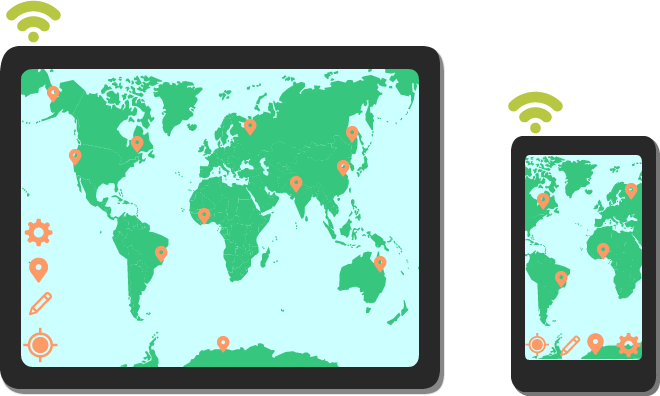
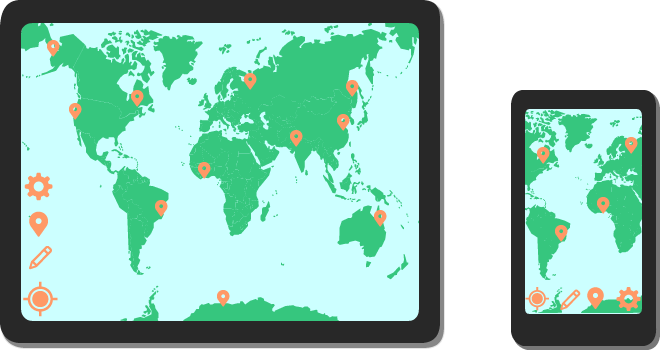
Small index page fixes for android, iphone, etc.

diff --git a/docs/source/index.html b/docs/source/index.html
@@ -1,5 +1,5 @@
 <!DOCTYPE html>
-<html lang="en-US" prefix="og: http://ogp.me/ns#">
+<html lang="en-US" prefix="og: http://ogp.me/ns#" class="no-js">
 <head>
   <meta charset="UTF-8">
 
@@ -83,16 +83,16 @@
 
 <script type="text/javascript" src="_static/modernizr.2.7.1.min.js"></script>
   <link rel="stylesheet" href="_static/style.css" type="text/css" />
-  <link rel="stylesheet" href="_static//animate.min.css" type="text/css" />
-   <link rel="stylesheet" href="_static/extra.css" type="text/css" />
+  <link rel="stylesheet" href="_static/animate.min.css" type="text/css" />
+  <link rel="stylesheet" href="_static/extra.css" type="text/css" />
 </head>
 <body class="page">
   <a name="top"></a>
 
-		<header id="masthead" class="site-header" role="banner">
-			<a href="http://boundlessgeo.com/" rel="home" id="logo"><img src="_static/logo.png"></a>
+    <header id="masthead" class="site-header" role="banner">
+      <a href="http://boundlessgeo.com/" rel="home" id="logo"><img src="_static/logo.png"></a>
       <img id="android" src="_static/android.png">
-		</header>
+    </header>
   <section class="navi">
     <div class="secondarynav">
       <div class=" breadcrumbs pull-left">
@@ -122,7 +122,7 @@
     <div class="container">
       <div class="row">
         <div class="col-md-12 text-center">
-          <h1 style="margin-top: 20px;">A native Android geospatial library and map server.
+          <h1 style="margin-top: 20px; z-index:50;">A native Android geospatial library and map server.
         </div>
       </div>
       <div class="row">
@@ -131,7 +131,7 @@
           <p class="animated fadeIn fadeText" id="android_text">Custom lightweight mobile components...</p>
           <p class="animated fadeIn fadeText" id="lowlevel_text">A fast, native canvas renderer...</p>
           <p class="animated fadeIn fadeText" id="projections_text">Native geometry &amp; projection support...</p>
-          <p class="animated fadeIn fadeText" id="formats_text">Vector support for .shps, geopackage, geogit, geojson, mbtiles &amp; more...</p>
+          <p class="animated fadeIn fadeText" id="formats_text">Vector support for .shp, .gpkg, geogit, geojson, mbtiles &amp; more</p>
 
           <p class="animated fadeIn fadeText" id="water_text">A mobile server with tile service, map service...</p>
 
@@ -144,7 +144,11 @@
       <div class="row-fluid">
         <div class="col-md-12 text-center" style="margin: 20px 0;">
 
+          <img src="_static/devices_wifi.png" id="wifi" class="device animated fadeIn" />
+
           <img src="_static/devices_all.png" id="all" class="device animated fadeIn" />
+
+          <img src="_static/devices_features.png" id="features" class="device animated fadeIn" />
 
           <img src="_static/devices_land.png" id="land" class="device animated fadeIn" />
 
@@ -169,22 +173,23 @@
 
   <div class="row">
     <div class="col-md-12 text-center">
-      <a href="toc.html" type="button" class="btn btn-primary">Get Started &raquo;</a>
+      <a href="toc.html" type="button" class="btn btn-primary">Get Started &raquo; </a>
     </div>
   </div>
 
   <div class="bottom_spacer"></div>
 
   <footer class="site-footer">
-		<div class="container">
-			<div class="row">
-				<div class="col-md-12 col-sm-12 text-center">
+    <div class="container">
+      <div class="row">
+        <div class="col-md-12 col-sm-12 text-center">
             <a href="http://boundlessgeo.com/">&copy; Copyright 2014, Boundless</a>
-	      </div>
-			</div>
-		</div>
+            <br/>
+            <p class="attribution">The Android robot is reproduced or modified from work created and shared by Google and used according to terms described in the <a href="http://creativecommons.org/licenses/by/3.0/">Creative Commons 3.0 Attribution License</a>.</p>
+        </div>
+      </div>
+    </div>
   </footer>
-
 
   <script type="text/javascript" src="_static/jquery.1.10.2.min.js"></script>
   <script type="text/javascript" src="_static/bootstrap/js/bootstrap.min.js"></script>

diff --git a/docs/themes/boundless_android/static/extra.css b/docs/themes/boundless_android/static/extra.css
@@ -1,11 +1,11 @@
 
-/* For index.html page */
+/* For custom site page index.html (not sphinx) */
 
 .spacer {
   margin-top: 48%;
 }
 .bottom_spacer {
-  margin-top: 5%;
+  margin-top: 9%;
 }
 
 .secondarynav ul.right-nav {
@@ -22,7 +22,7 @@ li.next {
   font-family: 'Open Sans',HelveticaArial, sans-serif;
   font-weight: 600;
   letter-spacing: 1px;
-
+  white-space: nowrap;
 }
 .get_started:hover {
   text-decoration: none;
@@ -38,6 +38,9 @@ li.next {
   height: auto;
   width: 80%;
   top: 50px;
+  -webkit-transform: translate3d(0, 0, 0); /*force hw accel*/
+  -webkit-backface-visibility: hidden;
+  -webkit-perspective: 1000;
 }
 
 .fadeText {
@@ -51,43 +54,58 @@ li.next {
   left: 10%;
   width: 80%;
   top: 63px;
+  -webkit-transform: translate3d(0, 0, 0); /*force hw accel*/
+  -webkit-backface-visibility: hidden;
+  -webkit-perspective: 1000;
 }
 
 #end_text{
-  z-index: 28;
+  z-index: 34;
   margin-top: -54px;
   animation-duration: 3s;
-  animation-delay: 36s;
+  animation-delay: 34s;
   animation-iteration-count: 1;
   animation-timing-function: ease-in;
   -webkit-animation-duration: 3s;
-  -webkit-animation-delay: 36s;
+  -webkit-animation-delay: 34s;
+  -webkit-animation-iteration-count: 1;
+  -webkit-animation-timing-function: ease-in;
+}
+
+#wifi {
+  z-index: 36;
+  margin-top: -6%;
+  animation-duration: 3s;
+  animation-delay: 29s;
+  animation-iteration-count: 1;
+  animation-timing-function: ease-in;
+  -webkit-animation-duration: 3s;
+  -webkit-animation-delay: 29s;
   -webkit-animation-iteration-count: 1;
   -webkit-animation-timing-function: ease-in;
 }
 
 #all {
-  margin-top: -5.6%;
-  z-index: 30;
-  animation-duration: 9s;
-  animation-delay: 22s;
+  z-index: 31;
+  animation-duration: 3s;
+  animation-delay: 29s;
   animation-iteration-count: 1;
   animation-timing-function: ease-in;
-  -webkit-animation-duration: 9s;
-  -webkit-animation-delay: 22s;
+  -webkit-animation-duration: 3s;
+  -webkit-animation-delay: 29s;
   -webkit-animation-iteration-count: 1;
   -webkit-animation-timing-function: ease-in;
 }
 
 #ol_text{
-  z-index: 22;
+  z-index: 33;
   margin-top: -54px;
   animation-duration: 3s;
-  animation-delay: 31s;
+  animation-delay: 29s;
   animation-iteration-count: 1;
   animation-timing-function: ease-in;
   -webkit-animation-duration: 3s;
-  -webkit-animation-delay: 31s;
+  -webkit-animation-delay: 29s;
   -webkit-animation-iteration-count: 1;
   -webkit-animation-timing-function: ease-in;
 }
@@ -95,15 +113,28 @@ li.next {
 #feature_text {
   z-index: 20;
   margin-top: -54px;
-  animation-duration: 4s;
-  animation-delay: 25s;
+  animation-duration: 3s;
+  animation-delay: 24s;
   animation-iteration-count: 1;
   animation-timing-function: ease-in;
-  -webkit-animation-duration: 4s;
-  -webkit-animation-delay: 25s;
+  -webkit-animation-duration: 3s;
+  -webkit-animation-delay: 24s;
   -webkit-animation-iteration-count: 1;
   -webkit-animation-timing-function: ease-in;
 }
+
+#features {
+  z-index: 30;
+  animation-duration: 3s;
+  animation-delay: 22s;
+  animation-iteration-count: 1;
+  animation-timing-function: ease-in;
+  -webkit-animation-duration: 3s;
+  -webkit-animation-delay: 22s;
+  -webkit-animation-iteration-count: 1;
+  -webkit-animation-timing-function: ease-in;
+}
+
 
 #land {
   z-index: 7;
@@ -258,3 +289,17 @@ li.next {
   -webkit-animation-timing-function: ease-in;
 }
 
+@media only screen and (max-width: 480px) {
+  h1 {
+    font-size: 1.8em;
+  }
+  .device {
+    top: 80px;
+  }
+  .spacer {
+    margin-top: 260px;
+  }
+  .bottom_spacer {
+    margin-top: 110px;
+  }
+}

diff --git a/docs/themes/boundless_android/layout.html b/docs/themes/boundless_android/layout.html
@@ -3,7 +3,7 @@
 {%- macro breadcrumbs() %}
 <div>
   {%- if coursename %}
-    <a href="{{ pathto('../index.html', 1) }}" title="Course Home">{{ coursename|striptags }}</a> {{ breadcrumbdelim }}&nbsp;
+    <a href="{{ pathto('../toc.html', 1) }}" title="Table of Contents">{{ coursename|striptags }}</a> {{ breadcrumbdelim }}&nbsp;
   {%- endif %}
   {%- block rootrellink %}
   <a href="{{ pathto('index') }}">{{ project }}</a>
@@ -59,7 +59,7 @@
 {%- block doctype -%}
 <!DOCTYPE html>
 {%- endblock %}
-<html lang="en-US" prefix="og: http://ogp.me/ns#">
+<html lang="en-US" prefix="og: http://ogp.me/ns#" class="no-js">
 <head>
   <meta charset="UTF-8">
   {{ metatags }}

diff --git a/docs/themes/boundless_android/static/style.css b/docs/themes/boundless_android/static/style.css
@@ -6190,8 +6190,8 @@ ul.simple li img {
   display: none;
 }
 p.attribution {
-  font-size: 0.8em;
-  width: 60%;
+  font-size: 0.6em;
+  width: 70%;
   margin: 20px auto 10px auto;
   line-height: 1.5em;
 }

diff --git a/docs/themes/boundless_android/static/custom/custom.less b/docs/themes/boundless_android/static/custom/custom.less
@@ -1328,8 +1328,8 @@ ul.simple li img {
 }
 
 p.attribution {
-  font-size: 0.8em;
-  width: 60%;
+  font-size: 0.6em;
+  width: 70%;
   margin: 20px auto 10px auto;
   line-height: 1.5em;
 }
